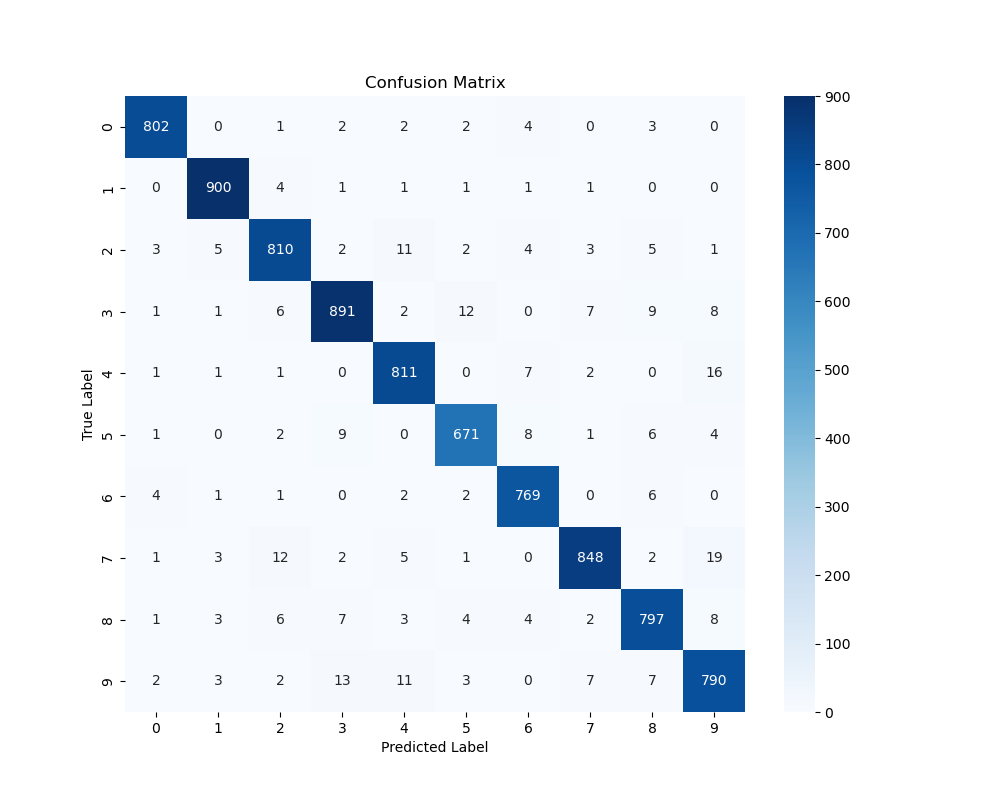
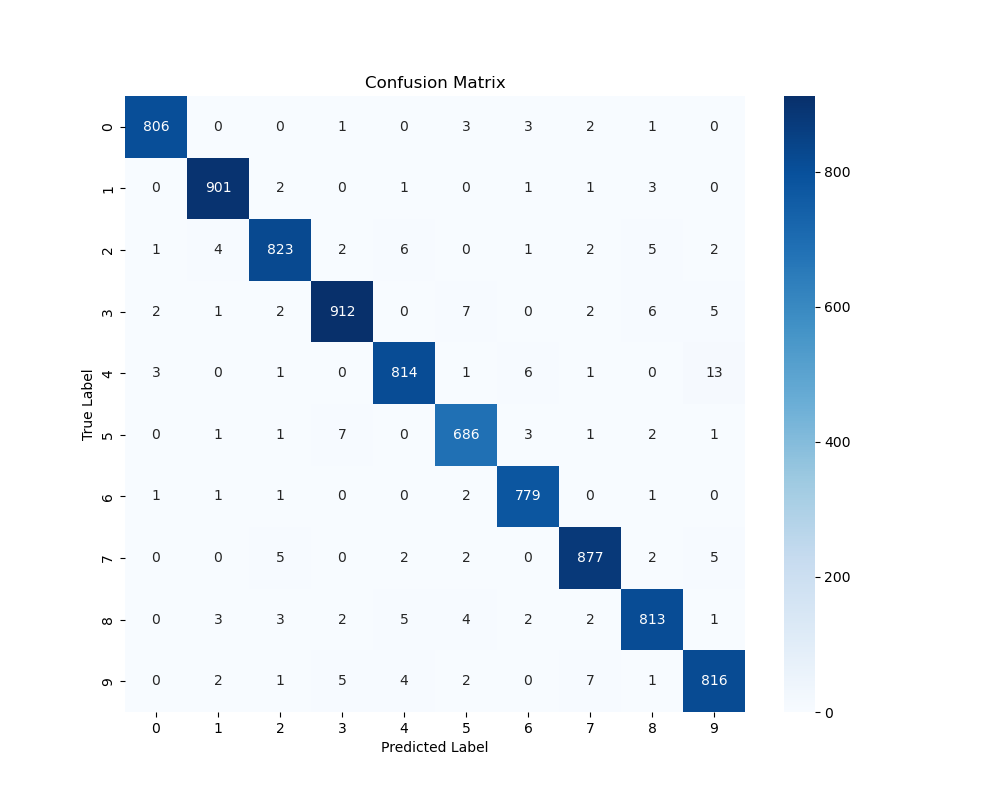
feat: improve image preprocessing for better prediction accuracy

diff --git a/app.py b/app.py
@@ -39,23 +39,70 @@ if uploaded_file is not None:
     st.image(image, caption='Uploaded Image', use_column_width=False, width=200)
     
     # Checkbox to invert image
-    invert = st.checkbox("Invert Image (Check this if image is Black digit on White background)", value=True)
+    invert = st.checkbox("Invert Image (Select this if image is Black digit on White background)", value=True)
     
-    if invert:
-        image = ImageOps.invert(image.convert('RGB'))
-    
-    # Convert to grayscale
-    img_gray = image.convert('L')
-    
-    # Resize to 28x28
-    img_resized = img_gray.resize((28, 28))
+    def preprocess_image(img, invert_colors):
+        # 1. Convert to grayscale
+        img_gray = img.convert('L')
+        
+        # 2. Invert if requested (MNIST is white on black)
+        # If user uploaded black on white, we MUST invert.
+        if invert_colors:
+            img_gray = ImageOps.invert(img_gray)
+            
+        # 3. Thresholding to clear up noise and facilitate cropping
+        # Convert to numpy array
+        img_arr = np.array(img_gray)
+        
+        # Simple threshold: everything below 50 becomes 0, else 255.
+        # This helps in removing noise and finding the bounding box of the digit.
+        # Ensure we don't accidentally kill soft edges too much, but for bounding box it's good.
+        # For the final image, we might want to keep the original grayscale values but cropped.
+        
+        # Let's find the bounding box using a binary version
+        binary_arr = np.where(img_arr > 50, 255, 0).astype(np.uint8)
+        coords = np.argwhere(binary_arr > 0)
+        
+        # Determine bounding box
+        if coords.size == 0:
+            # Empty image
+            return img_gray.resize((28, 28))
+            
+        y_min, x_min = coords.min(axis=0)
+        y_max, x_max = coords.max(axis=0)
+        
+        # Crop the ORIGINAL grayscale image (not the binary one)
+        cropped = img_gray.crop((x_min, y_min, x_max+1, y_max+1))
+        
+        # 4. Resize with aspect ratio preservation to fit in 20x20 box
+        # MNIST digits are roughly 20x20 inside a 28x28 box
+        output_size = 20
+        w, h = cropped.size
+        scale = output_size / max(w, h)
+        new_w, new_h = int(w * scale), int(h * scale)
+        
+        resized = cropped.resize((new_w, new_h), Image.Resampling.LANCZOS)
+        
+        # 5. Paste into 28x28 black canvas (centered)
+        final_img = Image.new('L', (28, 28), 0)
+        
+        # Calculate paste position (center)
+        paste_x = (28 - new_w) // 2
+        paste_y = (28 - new_h) // 2
+        
+        final_img.paste(resized, (paste_x, paste_y))
+        
+        return final_img
+
+    # Perform preprocessing
+    img_processed = preprocess_image(image, invert)
     
     # Display processed image
-    st.write("Processed Image (28x28 Grayscale):")
-    st.image(img_resized, width=100)
+    st.write("Processed Image (Input to Model):")
+    st.image(img_processed, width=100, caption="28x28 Centered")
     
     # Flatten and Normalize
-    img_array = np.array(img_resized)
+    img_array = np.array(img_processed)
     img_flat = img_array.flatten()
     img_normalized = img_flat / 255.0
     
